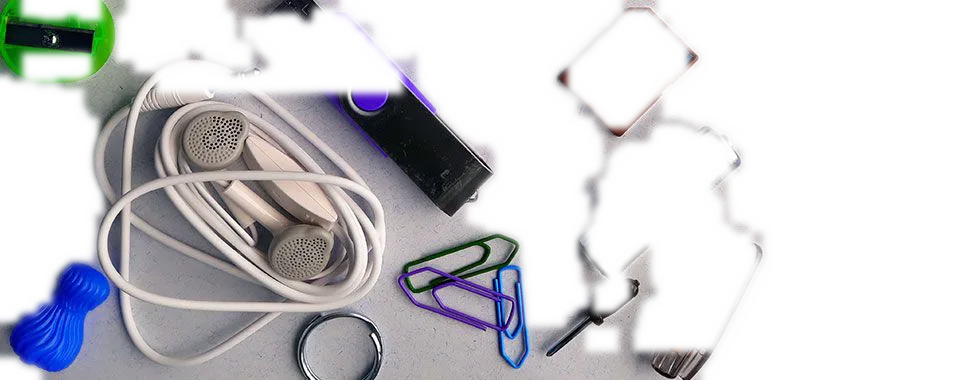
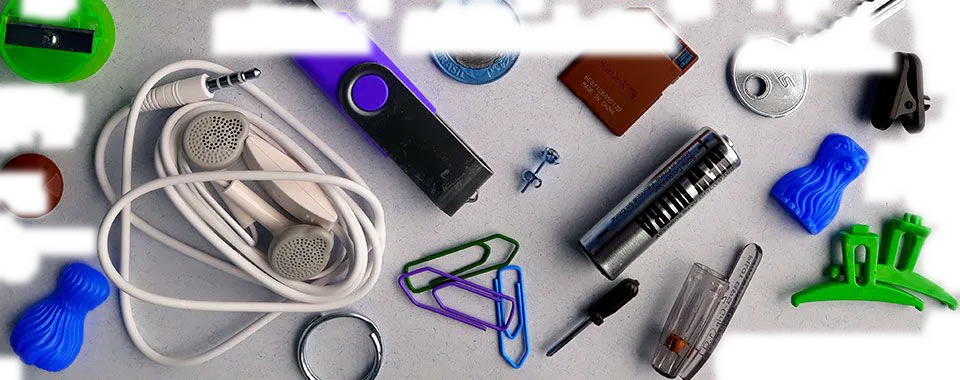
alteracao

diff --git a/remove_fundo.py b/remove_fundo.py
@@ -62,8 +62,7 @@ max_contour = contour_info[0]
 # -- Create empty mask, draw filled polygon on it corresponding to largest contour ----
 # Mask is black, polygon is white
 mask = np.zeros(edges.shape)
-for c in contour_info:
-    cv2.fillConvexPoly(mask, c[0], (255))
+cv2.fillConvexPoly(mask, max_contour[0], (255))
 
 # -- Smooth mask, then blur it
 mask = cv2.dilate(mask, None, iterations=MASK_DILATE_ITER)
